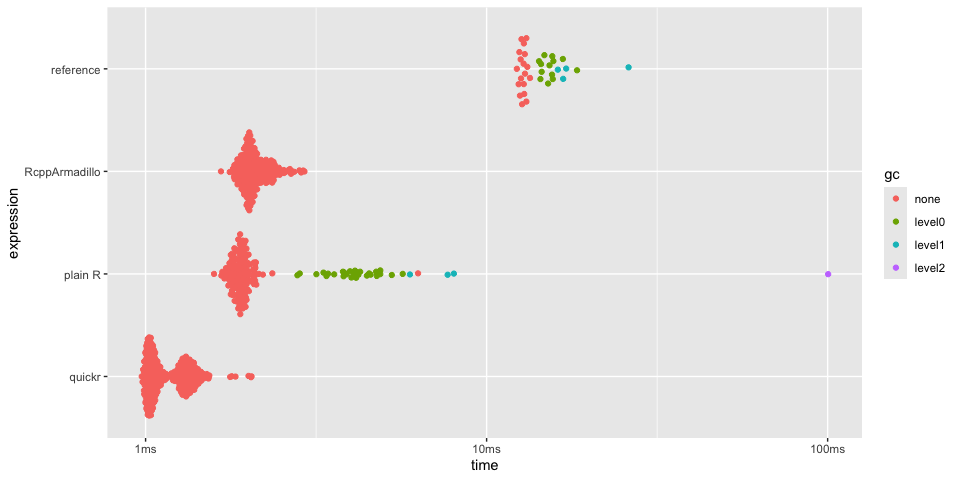
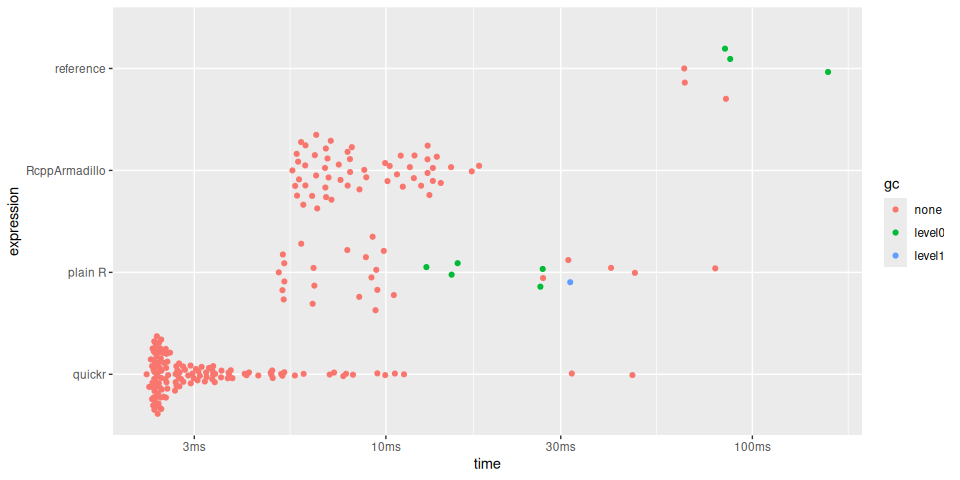
`devtools::rebuild_readme()`

diff --git a/README.md b/README.md
@@ -4,7 +4,6 @@
 # quickr <img src="man/figures/logo.png" align="right" height="138"/>
 
 <!-- ![](https://i.giphy.com/media/v1.Y2lkPTc5MGI3NjExMjBhNWt1Z3Q4ZW56cG00c2hncmtwbGJycm53M3JxYWdscjRkaDJobCZlcD12MV9pbnRlcm5hbF9naWZfYnlfaWQmY3Q9Zw/12haGO61oFZ28w/giphy.gif){alt="An animated GIF showing two characters in a spaceship cockpit rapidly accelerating into hyperspace, with stars stretching into bright streaks, creating a sensation of rapid acceleration and motion."} -->
-
 <!-- badges: start -->
 
 [![R-CMD-check](https://github.com/t-kalinowski/quickr/actions/workflows/R-CMD-check.yaml/badge.svg)](https://github.com/t-kalinowski/quickr/actions/workflows/R-CMD-check.yaml)
@@ -23,49 +22,27 @@ trade back some of that flexibility for some speed, for the context of a
 single function.
 
 <!-- Programming language design requires some hard decisions and trade-ofs. -->
-
 <!-- When you want to have it all, you typically end up have two (or more!) languages. -->
-
 <!-- An interpreted, dynamic language full of conveniences, and a staticly-typed, explicit, high-performance language. -->
-
 <!-- This is sometimes called the "Two Language Problem". -->
-
 <!-- Like [Numba](https://numba.pydata.org) in Python, or the [Julia](https://julialang.org) language, quickr is a solution to the [two-language problem](https://juliadatascience.io/julia_accomplish). -->
-
 <!-- Unlike those tools however, quickr does not bundle most of LLVM, keeping dependencies lightweight. -->
-
 <!-- Quickr works by translating the R code to Fortran. -->
-
 <!-- Fortran might seem like a surprising choice, but it has many compelling properties: -->
-
 <!-- -   Superb performance. -->
-
 <!--     As a stalwart of the numerical computing community, Fortran has accrued the benefit of countless person-hours from top-tier computer scientists and compiler engineers. -->
-
 <!--     There is a reason that over 20% of R itself, (and numpy, and ...) are still in Fortran, and it's not merely because of legacy. -->
-
 <!--     And this trend of compiler engineers focusing on Fortran is not stopping. -->
-
 <!-- -   Large overlap with R semantics and syntax for numerical computing. -->
-
 <!--     Fortran and R have very similar syntax for operating on arrays. -->
-
 <!--     Like R, Fortran has builtin-in support for nd-arrays, provides vectorized operators on arrays, convenient array slicing semantics that match many capabilities of R's `[` , 1-based indexing, and a well-populated collection of operators for working on those arrays like `min`, `max`, `any` `all`, etc. -->
-
 <!--     This means that it's relatively straightforward to translate R to Fortran, often just a 1:1 mapping of semantics, with some changes to syntax. -->
-
 <!--     This is also why Fortran has such superb performance, and why it attracts compiler engineers to work on it. -->
-
 <!--     Because the language spec guarantees things like, static shapes for nd-arrays, views of those arrays, etc, it provides many opportunities for compiler engineers to do things like generate SIMD instructions, or automatically parallelize code. -->
-
 <!-- -   Excellent support in R. -->
-
 <!--     One of the original motivations for R was to serve as a front-end for Fortran. -->
-
 <!--     Since its inception, R has supported Fortran extensions, and supported them well. -->
-
 <!--     It also means that any computing environment where R build tools are available, Fortran is supported. -->
-
 <!--     The barrier to entry and thorny questions, that, for example, using Rust in CRAN might raise, is non-existent for Fortran. -->
 
 The main exported function is `quick()`. Here is how you use it:
@@ -140,9 +117,9 @@ timings
 #> # A tibble: 3 × 6
 #>   expression      min   median `itr/sec` mem_alloc `gc/sec`
 #>   <bch:expr> <bch:tm> <bch:tm>     <dbl> <bch:byt>    <dbl>
-#> 1 r             493ms 496.46ms      2.01     782KB     2.01
-#> 2 quickr        934µs   1.07ms    930.       782KB    19.5 
-#> 3 c             956µs   1.08ms    924.       782KB    19.6
+#> 1 r             1.43s    1.43s     0.702     782KB    0.702
+#> 2 quickr       2.63ms    2.7ms   355.        782KB    6.77 
+#> 3 c            4.92ms   5.22ms   189.        782KB    3.61
 plot(timings) + bench::scale_x_bench_time(base = NULL)
 ```
 
@@ -182,11 +159,11 @@ In the case of `convolve()`, `quick()` returns a function approximately
     #>  [71] log          log10        logical      matrix       max         
     #>  [76] min          ncol         next         nrow         numeric     
     #>  [81] outer        print        prod         qr.solve     raw         
-    #>  [86] rbind        repeat       rev          runif        seq         
-    #>  [91] seq_along    seq_len      sin          solve        sqrt        
-    #>  [96] stop         sum          svd          t            tan         
-    #> [101] tanh         tcrossprod   trunc        which.max    which.min   
-    #> [106] while
+    #>  [86] rbind        rep.int      repeat       rev          runif       
+    #>  [91] seq          seq_along    seq_len      sin          solve       
+    #>  [96] sqrt         stop         sum          svd          t           
+    #> [101] tan          tanh         tcrossprod   trunc        which.max   
+    #> [106] which.min    while
 
 Many of these restrictions are expected to be relaxed as the project
 matures. However, quickr is intended primarily for high-performance
@@ -303,8 +280,8 @@ timings
 #> # A tibble: 2 × 6
 #>   expression         min   median `itr/sec` mem_alloc `gc/sec`
 #>   <bch:expr>    <bch:tm> <bch:tm>     <dbl> <bch:byt>    <dbl>
-#> 1 slow_viterbi   62.81µs   75.6µs    12852.    1.59KB     28.2
-#> 2 quick_viterbi   5.45µs   6.19µs   158835.        0B      0
+#> 1 slow_viterbi  170.18µs 186.23µs     5011.    1.59KB     12.4
+#> 2 quick_viterbi   2.44µs   2.72µs   349107.        0B      0
 plot(timings)
 ```
 
@@ -395,8 +372,8 @@ summary(timings, relative = TRUE)
 #> # A tibble: 2 × 6
 #>   expression           min median `itr/sec` mem_alloc `gc/sec`
 #>   <bch:expr>         <dbl>  <dbl>     <dbl>     <dbl>    <dbl>
-#> 1 diffuse_heat        6.84   11.6       1       4893.     28.8
-#> 2 quick_diffuse_heat  1       1        10.2        1       1
+#> 1 diffuse_heat        13.6   16.8       1       4893.      Inf
+#> 2 quick_diffuse_heat   1      1        16.7        1       NaN
 plot(timings)
 ```
 
@@ -442,9 +419,9 @@ timings
 #> # A tibble: 3 × 6
 #>   expression      min   median `itr/sec` mem_alloc `gc/sec`
 #>   <bch:expr> <bch:tm> <bch:tm>     <dbl> <bch:byt>    <dbl>
-#> 1 r           78.19ms  85.82ms      9.02  124.24MB    23.5 
-#> 2 rcpp         6.21ms    6.3ms    156.      4.46MB     0   
-#> 3 quickr       2.37ms   2.49ms    394.    781.35KB     3.98
+#> 1 r           187.9ms  292.3ms      3.42  124.24MB    10.3 
+#> 2 rcpp        20.12ms   20.4ms     48.9     4.46MB     0   
+#> 3 quickr       6.82ms    7.2ms    133.    781.35KB     1.99
 
 timings$expression <- factor(names(timings$expression), rev(names(timings$expression)))
 plot(timings) + bench::scale_x_bench_time(base = NULL)
@@ -558,10 +535,10 @@ timings
 #> # A tibble: 4 × 6
 #>   expression         min   median `itr/sec` mem_alloc `gc/sec`
 #>   <bch:expr>    <bch:tm> <bch:tm>     <dbl> <bch:byt>    <dbl>
-#> 1 reference      12.26ms  12.85ms      78.2    29.6MB     73.8
-#> 2 RcppArmadillo   1.66ms   2.04ms     476.         0B      0  
-#> 3 plain R         1.59ms    1.9ms     516.     13.2MB    133. 
-#> 4 quickr        974.32µs   1.09ms     849.         0B      0
+#> 1 reference      65.18ms  65.41ms      13.9    29.6MB     13.9
+#> 2 RcppArmadillo   5.56ms   7.86ms     110.         0B      0  
+#> 3 plain R          5.1ms   8.82ms      66.7    13.2MB     16.0
+#> 4 quickr          2.22ms   2.66ms     256.         0B      0
 plot(timings) + ggplot2::scale_y_discrete(limits = rev(c( 
   "reference", "RcppArmadillo", "plain R", "quickr"
 )))
